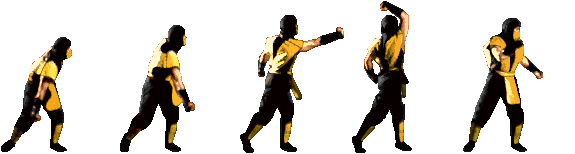
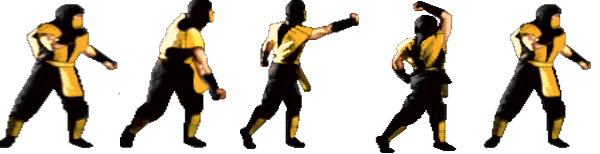
movimiento de piña de gancho

diff --git a/controller/GameController.cpp b/controller/GameController.cpp
@@ -100,10 +100,24 @@ void GameController::update(MKCharacter* character, MKCharacter* character2) {
 					timer = SDL_GetTicks();
 					break;
 				case SDLK_p:
-					Mylog->Log("movimiento del personaje: Golpe de puño.", ERROR_LEVEL_INFO);
-					character->setMovement("PUNCH");
-					previousKey = mainEvent->key.keysym.sym;
-					timer = SDL_GetTicks();
+					if (previousKey == SDLK_UP){
+							Mylog->Log("movimiento del personaje: Golpe de puño alto.", ERROR_LEVEL_INFO);
+							character->setMovement("PUNCHUP");
+							previousKey = SDLK_UP;
+							timer = SDL_GetTicks();
+					}
+					else if (previousKey == SDLK_LEFT || previousKey == SDLK_RIGHT){
+						Mylog->Log("movimiento del personaje: Golpe de puño con salto.", ERROR_LEVEL_INFO);
+						character->setMovement("PUNCHJUMP");
+						previousKey = SDLK_UP;
+						timer = SDL_GetTicks();
+					}
+					else{
+						Mylog->Log("movimiento del personaje: Golpe de puño.", ERROR_LEVEL_INFO);
+						character->setMovement("PUNCH");
+						previousKey = mainEvent->key.keysym.sym;
+						timer = SDL_GetTicks();
+					}
 					break;
 				default:
 					previousKey = mainEvent->key.keysym.sym;

diff --git a/view/GameView.cpp b/view/GameView.cpp
@@ -207,6 +207,14 @@ void GameView::runCharacter() {
     else if (scorpion->getMovement() == "PUNCH") {
     		sprite = scorpionPunch;
     		sprite->Play(100);
+    }
+    else if (scorpion->getMovement() == "PUNCHUP") {
+    		sprite = scorpionPunchUp;
+    		sprite->Play(100);
+    }
+    else if (scorpion->getMovement() == "PUNCHJUMP") {
+    		sprite = scorpionPunchJump;
+    		sprite->Play(100);
     };
 
     CharacterSprite* sprite2;
@@ -249,6 +257,14 @@ void GameView::runCharacter() {
     }
     else if (raiden->getMovement() == "PUNCH") {
         sprite = raidenPunch;
+        sprite->Play(100);
+    }
+    else if (raiden->getMovement() == "PUNCHUP") {
+        sprite = raidenPunchUp;
+        sprite->Play(100);
+    }
+    else if (raiden->getMovement() == "PUNCHJUMP") {
+        sprite = raidenPunchJump;
         sprite->Play(100);
     };
 
